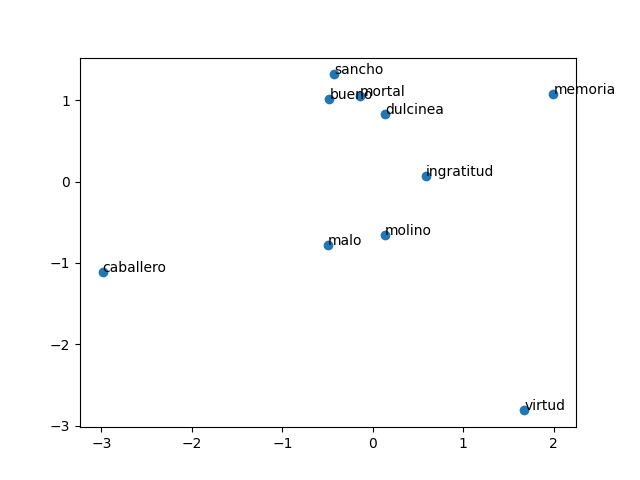
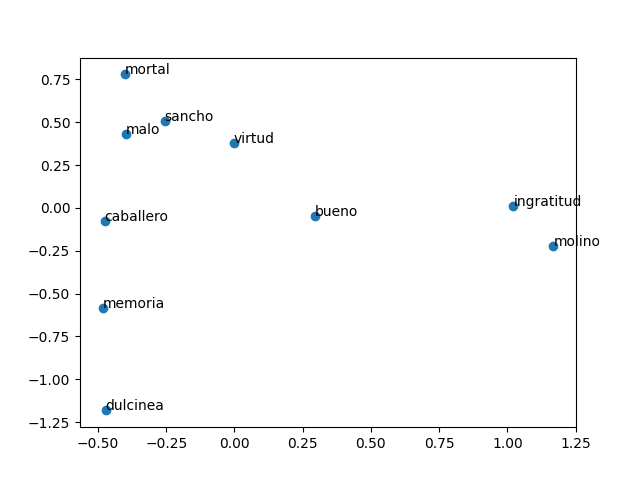
modificación del taller

diff --git a/test_cost.py b/test_cost.py
@@ -1,0 +1,70 @@
+import numpy as np
+from taller import forward_prop, initialize_model, compute_cost, get_dict, cargar_datos, softmax, get_batches
+
+
+def test_compute_cost():
+    try:
+        tmp_C = 2
+        tmp_N = 50
+        tmp_batch_size = 4
+        data = cargar_datos()
+        tmp_word2Ind, tmp_Ind2word = get_dict(data)
+        tmp_V = len(tmp_word2Ind)
+
+        tmp_x, tmp_y = next(get_batches(data, tmp_word2Ind, tmp_V, tmp_C, tmp_batch_size))
+
+        tmp_W1, tmp_W2, tmp_b1, tmp_b2 = initialize_model(tmp_N, tmp_V)
+        tmp_z, tmp_h = forward_prop(tmp_x, tmp_W1, tmp_W2, tmp_b1, tmp_b2)
+        tmp_yhat = softmax(tmp_z)
+        tmp_cost = compute_cost(tmp_y, tmp_yhat, tmp_batch_size)
+
+        print(f"tmp_x.shape {tmp_x.shape}")
+        print(f"tmp_y.shape {tmp_y.shape}")
+        print(f"tmp_W1.shape {tmp_W1.shape}")
+        print(f"tmp_W2.shape {tmp_W2.shape}")
+        print(f"tmp_b1.shape {tmp_b1.shape}")
+        print(f"tmp_b2.shape {tmp_b2.shape}")
+        print(f"tmp_z.shape: {tmp_z.shape}")
+        print(f"tmp_h.shape: {tmp_h.shape}")
+        print(f"tmp_yhat.shape: {tmp_yhat.shape}")
+        print("call compute_cost")
+        print(f"tmp_cost {tmp_cost:.4f}")
+
+        expected_shapes = {
+            'tmp_x': (23424, 4),
+            'tmp_y': (23424, 4),
+            'tmp_W1': (50, 23424),
+            'tmp_W2': (23424, 50),
+            'tmp_b1': (50, 1),
+            'tmp_b2': (23424, 1),
+            'tmp_z': (23424, 4),
+            'tmp_h': (50, 4),
+            'tmp_yhat': (23424, 4)
+        }
+        actual_shapes = {
+            'tmp_x': tmp_x.shape,
+            'tmp_y': tmp_y.shape,
+            'tmp_W1': tmp_W1.shape,
+            'tmp_W2': tmp_W2.shape,
+            'tmp_b1': tmp_b1.shape,
+            'tmp_b2': tmp_b2.shape,
+            'tmp_z': tmp_z.shape,
+            'tmp_h': tmp_h.shape,
+            'tmp_yhat': tmp_yhat.shape
+        }
+        for key in expected_shapes:
+            if actual_shapes[key] != expected_shapes[key]:
+                print(f"Error: {key} tiene shape {actual_shapes[key]}, pero se esperaba {expected_shapes[key]}")
+                print("Indicación: Revisa la inicialización y el flujo de datos para que las dimensiones coincidan.")
+        # Se acepta como correcto si la diferencia es <= 0.05 o si el valor es menor a 14.11
+        if abs(tmp_cost - 14.1139) <= 0.05 or tmp_cost < 14.11:
+            print("La función compute_cost retorna un valor aceptable.")
+        else:
+            print(f"Error: tmp_cost es {tmp_cost:.4f}, pero se esperaba 14.1139 o un valor menor a 14.11")
+            print("Indicación: Revisa la función compute_cost y los datos de entrada.")
+    except Exception as e:
+        print(f"Error al ejecutar el test: {e}")
+        print("Indicación: Revisa que todas las funciones estén correctamente implementadas y que los datos sean válidos.")
+
+if __name__ == "__main__":
+    test_compute_cost()

diff --git a/taller.py b/taller.py
@@ -4,7 +4,7 @@ import nltk
 from nltk.tokenize import word_tokenize
 import numpy as np
 from collections import Counter
-from utils2 import sigmoid, get_batches, compute_pca, get_dict
+from utils2 import sigmoid, get_batches, get_dict
 #nltk.download('punkt')
 nltk.download('punkt_tab')
 nltk.data.path.append('.')
@@ -17,13 +17,8 @@ def cargar_datos():
     data = [word.lower() for word in data if word.isalpha()] #Se convierten las palabras a minúsculas y se eliminan los tokens que no son palabras
     return data
 
-# get_dict creates two dictionaries, converting words to indices and viceversa.
-def get_dict(data):
-    word2Ind = {word: i for i, word in enumerate(set(data))}
-    Ind2word = {i: word for word, i in word2Ind.items()}
-    return word2Ind, Ind2word
 
-def initialize_model(N,V, random_seed=1):
+def initialize_model(N,V, random_seed=282):
     '''
     Inputs:
         N:  dimension of hidden vector
@@ -207,43 +202,7 @@ if __name__ == "__main__":
     # example of word to index mapping
     dulci = word2Ind['dulcinea']
     print("Index of the word 'dulcinea' :  ",word2Ind['dulcinea'])
-    print("Word which has index 21473:  ",Ind2word[dulci])
-
-    """
-    
-  
-    
-    
-
-    # Test the function
-    tmp_C = 2
-    tmp_N = 50
-    tmp_batch_size = 4
-    tmp_word2Ind, tmp_Ind2word = get_dict(data)
-    tmp_V = len(word2Ind)
-
-    tmp_x, tmp_y = next(get_batches(data, tmp_word2Ind, tmp_V,tmp_C, tmp_batch_size))
-
-    print(f"tmp_x.shape {tmp_x.shape}")
-    print(f"tmp_y.shape {tmp_y.shape}")
-
-    tmp_W1, tmp_W2, tmp_b1, tmp_b2 = initialize_model(tmp_N,tmp_V)
-
-    print(f"tmp_W1.shape {tmp_W1.shape}")
-    print(f"tmp_W2.shape {tmp_W2.shape}")
-    print(f"tmp_b1.shape {tmp_b1.shape}")
-    print(f"tmp_b2.shape {tmp_b2.shape}")
-
-    tmp_z, tmp_h = forward_prop(tmp_x, tmp_W1, tmp_W2, tmp_b1, tmp_b2)
-    print(f"tmp_z.shape: {tmp_z.shape}")
-    print(f"tmp_h.shape: {tmp_h.shape}")
-
-    tmp_yhat = softmax(tmp_z)
-    print(f"tmp_yhat.shape: {tmp_yhat.shape}")
-
-    tmp_cost = compute_cost(tmp_y, tmp_yhat, tmp_batch_size)
-    print("call compute_cost")
-    print(f"tmp_cost {tmp_cost:.4f}")
+    print("Word which has index 8096:  ",Ind2word[dulci])
 
     # Test the function
     tmp_C = 2
@@ -297,5 +256,5 @@ if __name__ == "__main__":
     num_iters = 150
     print("Call gradient_descent")
     W1, W2, b1, b2 = gradient_descent(data, word2Ind, N, V, num_iters)
-    """
+    
 

diff --git a/visuzalizar_embeddings.py b/visuzalizar_embeddings.py
@@ -1,28 +1,41 @@
 import matplotlib.pyplot as plt
-from taller import get_dict, cargar_datos, initialize_model, gradient_descent
-from utils2 import compute_pca
+from taller import cargar_datos, gradient_descent
+from utils2 import compute_pca, get_dict
 
-data = cargar_datos()
-word2Ind, Ind2word = get_dict(data)
-V = len(word2Ind)
-N = 300
-num_iters = 150
+def embedding_vectors(N=300):
 
-print("Call gradient_descent")
-W1, W2, b1, b2 = gradient_descent(data, word2Ind, N, V, num_iters)
+    data = cargar_datos()
+    word2Ind, Ind2word = get_dict(data)
+    V = len(word2Ind)    
+    num_iters = 150
 
-words = ['virtud', 'malo', 'bueno', 'molino', 'dulcinea','sancho','caballero',
-         'mortal','ingratitud','memoria']
+    print("Call gradient_descent")
+    W1, W2, b1, b2 = gradient_descent(data, word2Ind, N, V, num_iters)
 
-embs = (W1.T + W2)/2.0
+    words = ['virtud', 'malo', 'bueno', 'molino', 'dulcinea','sancho','caballero',
+            'mortal','ingratitud','memoria']
 
-# given a list of words and the embeddings, it returns a matrix with all the embeddings
-idx = [word2Ind[word] for word in words]
-X = embs[idx, :]
-print(X.shape, idx)  # X.shape:  Number of words of dimension N each
+    embs = (W1.T + W2)/2.0
+    print(embs.shape)  # embs.shape:  (23424, 50)
+    print(embs[:1, :])  # First 1 word embeddings
 
-result= compute_pca(X, 2)
-plt.scatter(result[:, 0], result[:, 1])
-for i, word in enumerate(words):
-    plt.annotate(word, xy=(result[i, 0], result[i, 1]))
-plt.savefig("word_embeddings.png")
+    return embs, word2Ind, words
+
+def visualize_embeddings(embs, word2Ind, words):
+
+    # given a list of words and the embeddings, it returns a matrix with all the embeddings
+    idx = [word2Ind[word] for word in words]
+    X = embs[idx, :]
+    print(X.shape, idx)  # X.shape:  Number of words of dimension N each
+
+    result= compute_pca(X, 2)
+    plt.scatter(result[:, 0], result[:, 1])
+    for i, word in enumerate(words):
+        plt.annotate(word, xy=(result[i, 0], result[i, 1]))
+    plt.savefig("word_embeddings.png")
+    print("Figure saved as word_embeddings.png")
+
+if __name__ == "__main__":
+    N = 50  # dimension of the embedding vector
+    embs, word2Ind, words = embedding_vectors(N=N)
+    visualize_embeddings(embs, word2Ind, words)

diff --git a/test_embedding.py b/test_embedding.py
@@ -1,0 +1,37 @@
+from visuzalizar_embeddings import embedding_vectors
+import numpy as np
+
+def test_embedding_vectors_exact():
+    try:
+        embs, word2Ind, words = embedding_vectors(N=50)
+        expected_shape = (23424, 50)
+        expected_first_row = np.array([
+            0.46098255, 0.81489086, 0.93156337, 0.55286354, 0.57684189, 0.16222413,
+            0.59137119, 0.52295451, 0.33392353, 0.93694233, 0.56203495, 0.66300384,
+            0.60171298, 0.82751255, 0.47696448, 0.82562782, 0.52777277, 0.33694564,
+            0.90680548, 0.74677524, 0.72808069, 0.51131873, 0.79809396, 0.60873604,
+            0.22241217, 0.46105669, 0.64762205, 0.70208283, 0.8705913 , 0.16321505,
+            0.38524259, 0.56144908, 0.450184  , 0.3278456 , 0.64997737, 0.37045732,
+            0.16140709, 0.65735461, 0.72124498, 0.94025211, 0.72436161, 0.41592088,
+            0.12573253, 0.57632651, 0.49797665, 0.46819603, 0.8692494 , 0.23977666,
+            0.6923717 , 0.36525298
+        ])
+        if embs.shape == expected_shape and np.allclose(embs[0], expected_first_row, atol=1e-6):
+            print(f"Correcto: La matriz de embeddings tiene shape {embs.shape} y la primera fila es la esperada.")
+            print("Primera fila de embs:")
+            print(embs[0])
+        else:
+            print(f"Error: La matriz de embeddings o la primera fila no son las esperadas.")
+            print(f"Shape obtenido: {embs.shape}, shape esperado: {expected_shape}")
+            print("Primera fila obtenida:")
+            print(embs[0])
+            print("Primera fila esperada:")
+            print(expected_first_row)
+            print("Indicación: Verifica la función embedding_vectors y la generación de los embeddings.")
+    except Exception as e:
+        print(f"Error al ejecutar embedding_vectors: {e}")
+        print("Indicación: Revisa la función embedding_vectors y los datos de entrada.")
+
+if __name__ == "__main__":
+    test_embedding_vectors_exact()
+
